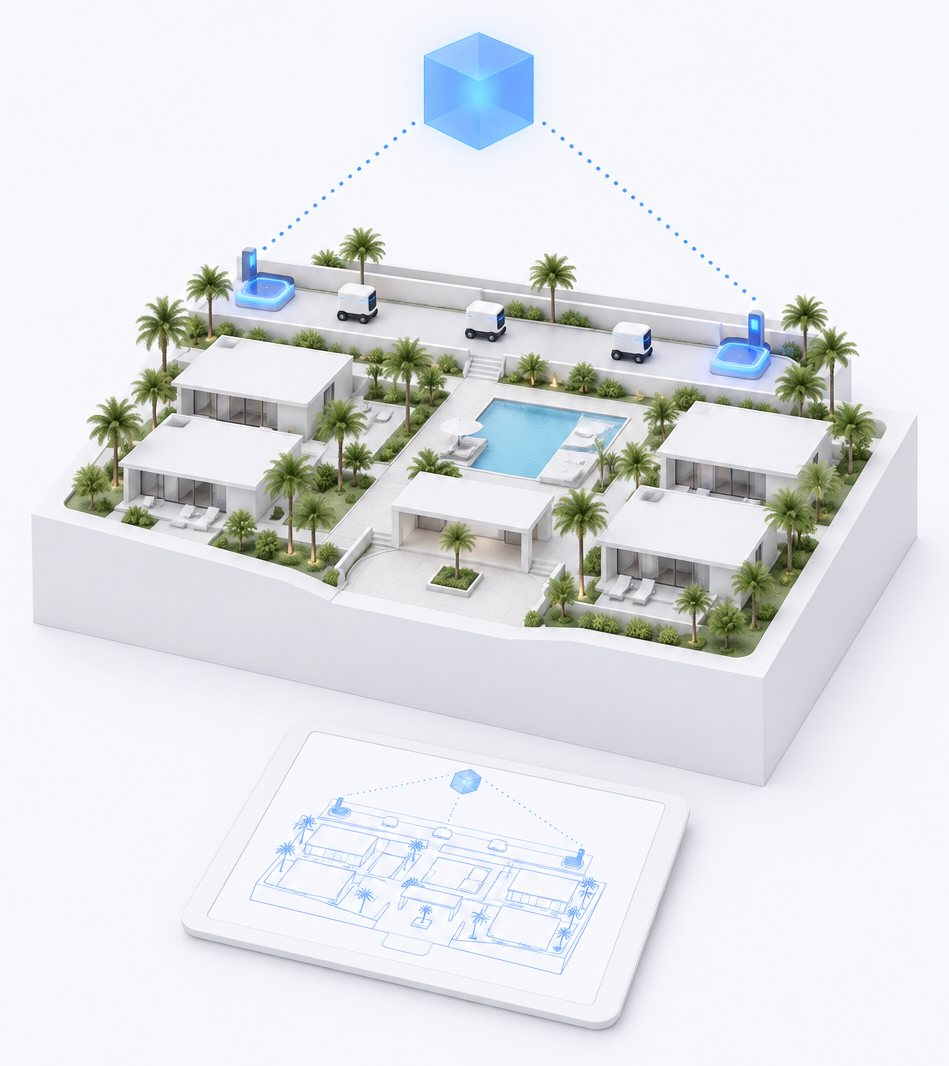
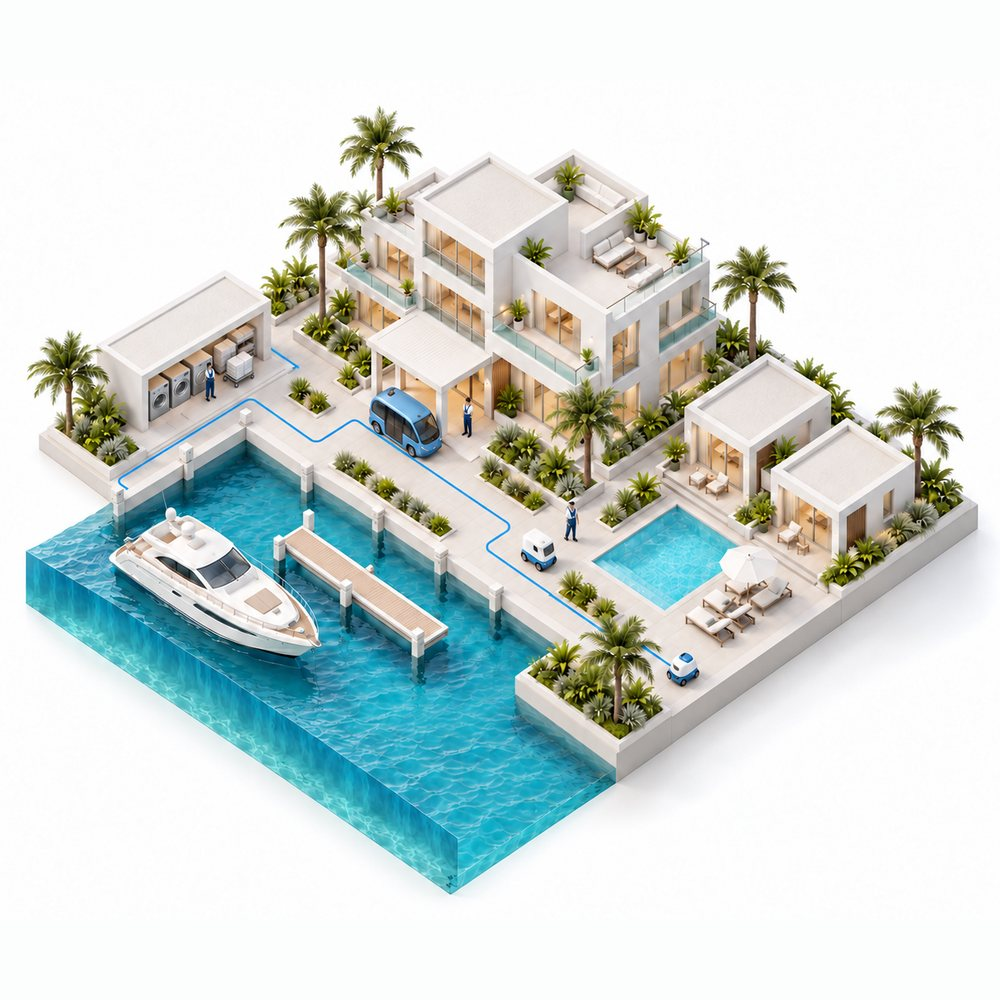
landing v6.14: What we offer picture replaced with the founder's render
- offer.jpg: the founder's isometric render (villas, pool, marina with a yacht, shuttle, delivery robots, staff)
  cropped to content, padded to a square and saved as 1000x1000 JPEG q84 (137 KB); replaces the generated picture
- img width/height 1000x1000, alt text updated

diff --git a/index.html b/index.html
@@ -11,8 +11,9 @@
 <link rel="preconnect" href="https://fonts.gstatic.com" crossorigin>
 <link rel="stylesheet" href="https://fonts.googleapis.com/css2?family=Inter+Tight:wght@700;800&display=swap">
 <style>
-/* Landing page (home.html → /), v6.13 2026-10-31: hero (founder render 12), market opportunity (rows: number + two lines, globe 340 px),
+/* Landing page (home.html → /), v6.14 2026-10-31: hero (founder render 12), market opportunity (rows: number + two lines, globe 340 px),
    how it works moved after solution with the founder's platform render (v6.6: cropped, RubiqOS blue, no button) + three small cards with Lucide icons,
+   v6.14: What we offer picture = the founder's render (square 1000 px JPEG, cropped to content and padded to a square),
    v6.13: Market lead gap 40px + rows lowered to the globe top; Solution 05 «Maintenance»; How cards 40px under the render; What we offer frameless, text left + square picture right; footer one block,
    v6.12: What we offer — label «02 · Operational plan»; Who we work with — «Write to us»; demo form card — plain h3 «Request a demo» instead of the label; footer — EIN removed, tagline «Physical AI for resort operations.»,
    v6.11: no divider after the hero; Market rows + globe raised (lead 28px, grid top-aligned); Solution card number + heading on one line,
@@ -332,7 +333,7 @@ body.site.home footer .copy { margin: 14px 0 0; font-size: 13px; } /* v6.13: fou
         <div><div class="k">02 · Operational plan</div><h3>An operating model built on the platform</h3><p>An operational plan for the resort that counts on physical AI and the platform: which tasks robots take, which stay with people, staffing and budget lines for each.</p></div>
         <div><div class="k">03 · Execution</div><h3>Tasks done by our robot fleet</h3><p>Deliveries, cleaning, mowing, patrols, transfers: done by our shared fleet, leased from hardware partners and supervised remotely by us. Paid per job done.</p></div>
       </div>
-      <figure class="model-pic"><img src="offer.jpg" width="949" height="1066" alt="Isometric model of a resort fragment on a white plinth: villas, palms, a pool, delivery robots and charging docks on the service corridor, a tablet with the plan in front" loading="lazy"></figure>
+      <figure class="model-pic"><img src="offer.jpg" width="1000" height="1000" alt="Isometric model of a resort fragment: villas, palms, a pool, a marina with a yacht, a shuttle, delivery robots and staff on the service route" loading="lazy"></figure>
     </div>
   </section>
 
